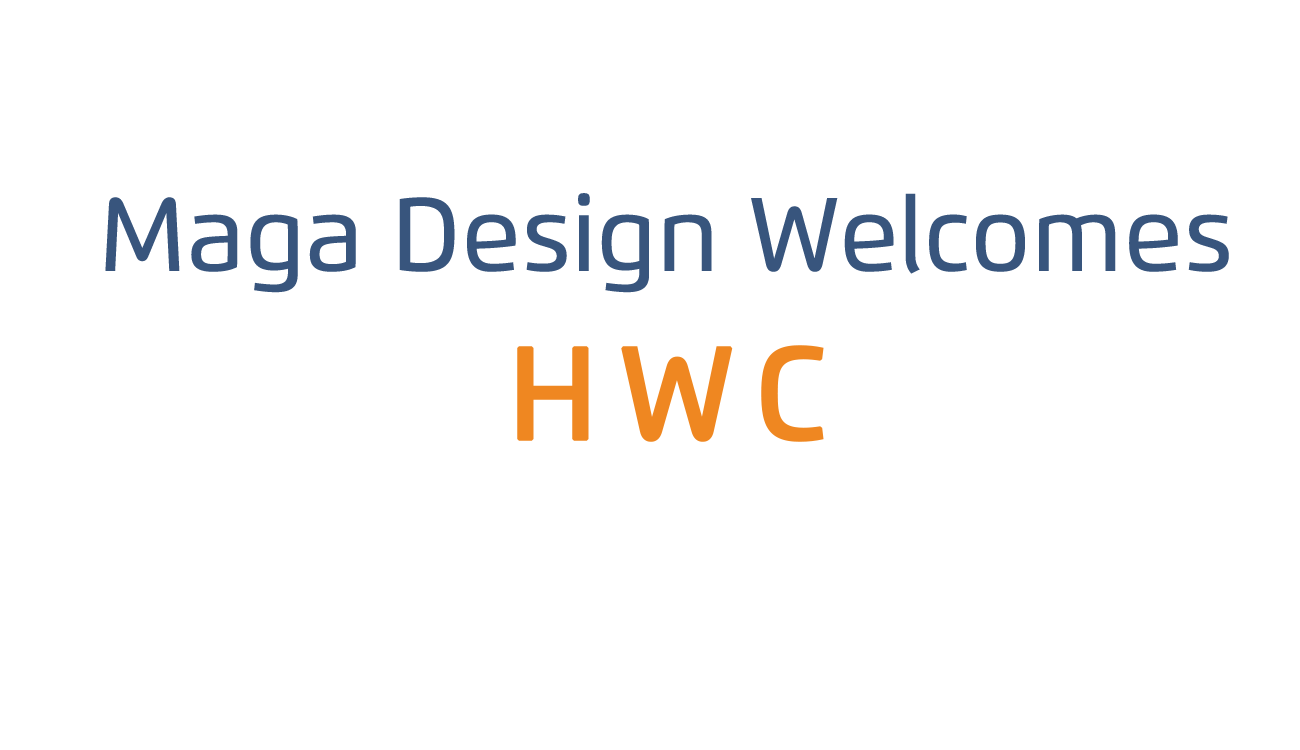
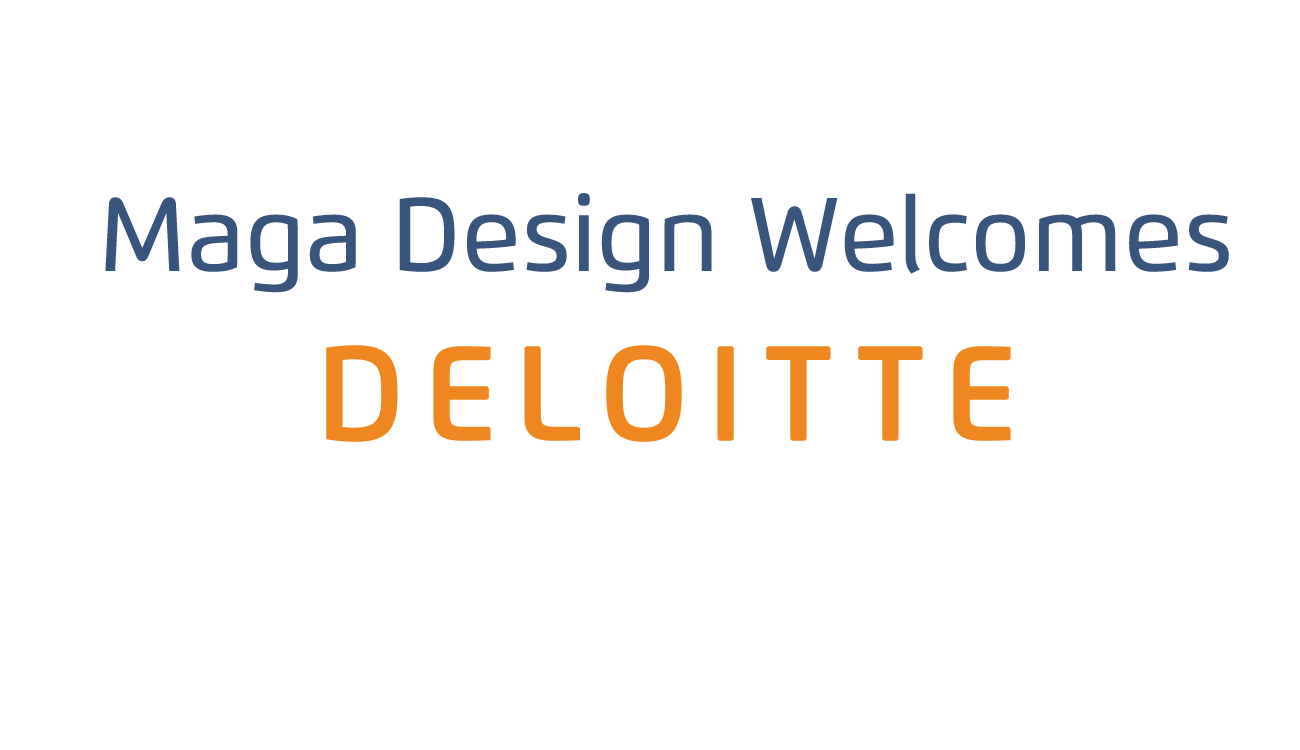
welcome sign

Changed region(s): [[0.2462, 0.46, 0.8, 0.6133]]

diff --git a/style.css b/style.css
@@ -63,9 +63,14 @@ body {
 	background-size: 100%;
 }
 
+#slide8 {
+	background-image: url(images/welcome-sign.png);
+	background-size: 100%;
+}
+
 .wrapper {
 	height: 850px;
-	width: 9600px;  /*10800 with welcome screen && 9600 without welcome screen */
+	width: 10800px;  /*10800 with welcome screen && 9600 without welcome screen */
 }
 
 p {

diff --git a/index.html b/index.html
@@ -182,6 +182,7 @@
 			<div id="slide5" class="slide"></div>
 			<div id="slide6" class="slide"></div>
 			<div id="slide7" class="slide"></div>
+			<div id="slide8" class="slide"></div>
 			
 		</div><!--wrapper ends-->
 
